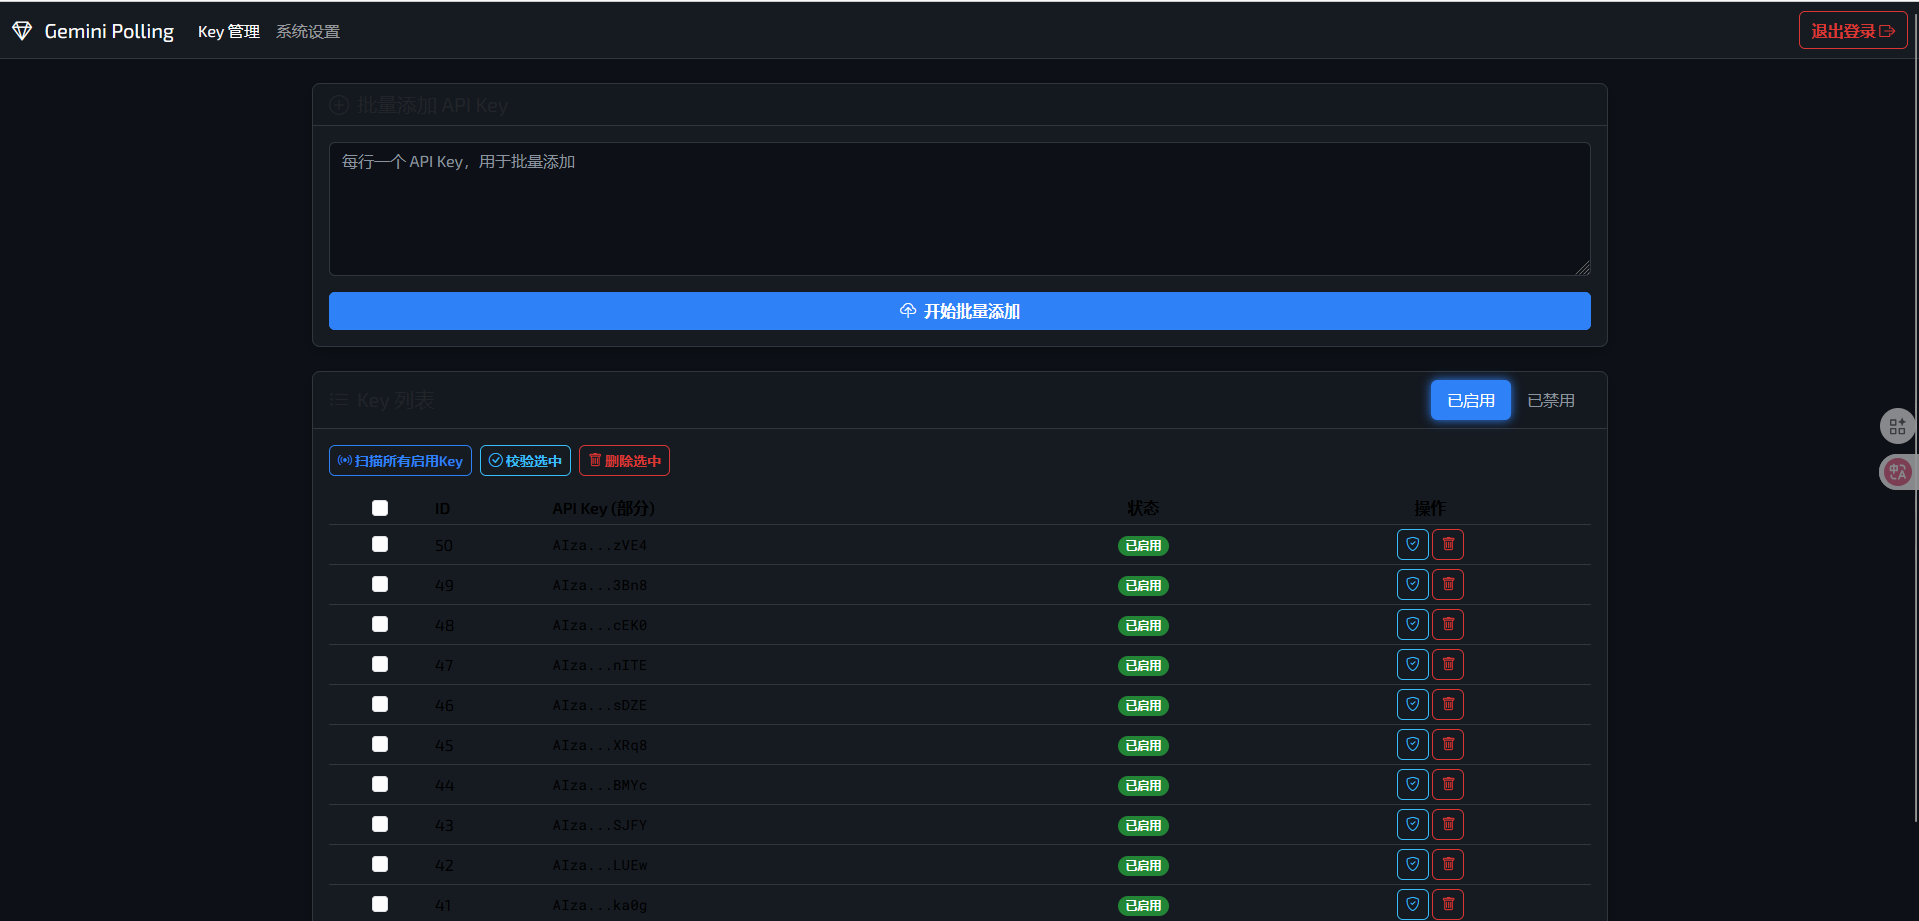
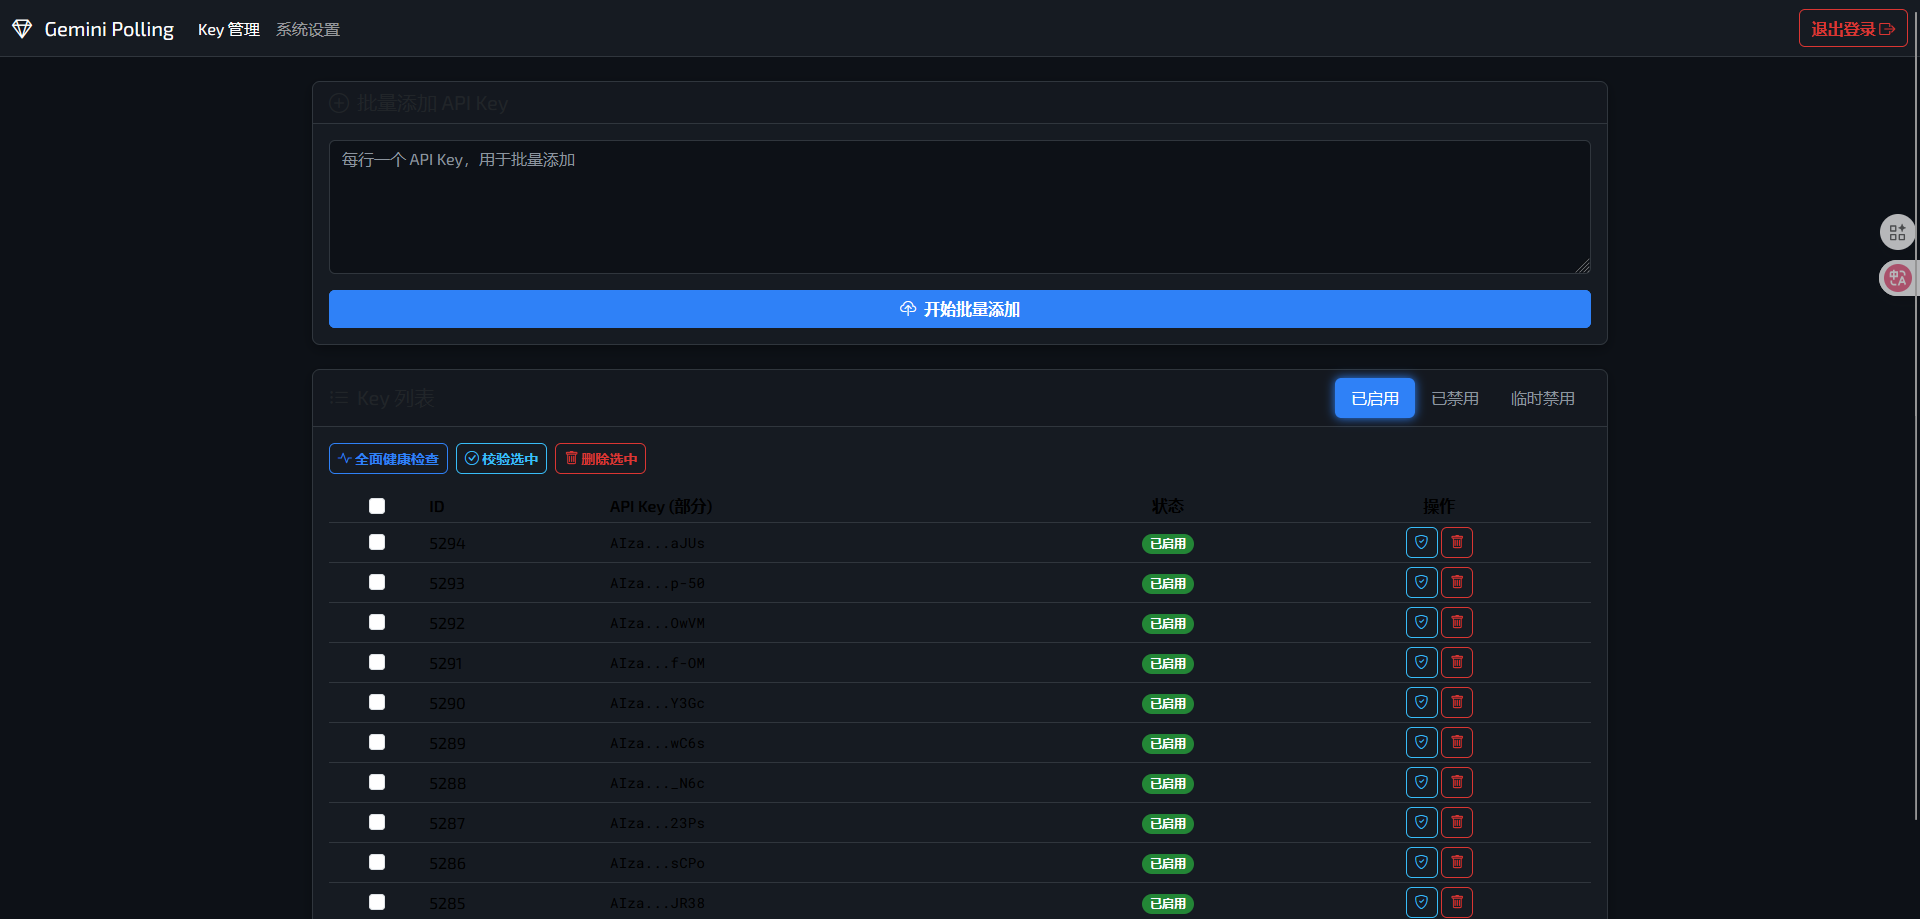
更新使用说明

diff --git a/README.md b/README.md
@@ -1,27 +1,44 @@
 # Gemini Polling 🚀(个人)
 
-一个高性能、高可用的 Google Gemini API 轮询代理。它将多个 Gemini API Key 汇聚成一个单一的、兼容 OpenAI 格式的 API 端点，并提供了负载均衡、自动故障切换和强大的 Web 管理后台。
+一个高性能、高可用的 Google Gemini API 轮询代理。它将多个 Gemini API Key 汇聚成一个单一的、同时支持 **OpenAI 格式**和 **Gemini 原生格式**的 API 端点，并提供了负载均衡、自动故障切换和强大的 Web 管理后台。
 
 [![Go Version](https://img.shields.io/badge/go-1.23%2B-blue.svg)](https://golang.org/)
 [![License: MIT](https://img.shields.io/badge/License-MIT-yellow.svg)](https://opensource.org/licenses/MIT)
+[![Docker](https://img.shields.io/badge/docker-ready-blue.svg?logo=docker)](https://hub.docker.com/)
 
 ---
 
 ## ✨ 核心功能
 
-*   **OpenAI 格式兼容**: 完全兼容 OpenAI 的 `/v1/chat/completions` 流式接口，可无缝接入各类第三方应用。
-*   **API Key 轮询池**: 将您所有的 Gemini API Key 添加到池中，程序会自动进行负载均衡，随机选择一个可用 Key 处理请求。
-*   **自动故障切换**: 当某个 Key 因为额度耗尽、被封禁或遇到 429 速率限制时，系统会自动尝试下一个可用 Key，对用户透明。
-*   **智能速率限制处理**: 自动识别 `429 (Too Many Requests)` 错误，并临时禁用相关 Key 一段可配置的时间，避免 Key 被永久封禁。
+*   **双 API 引擎**:
+    *   **OpenAI 格式兼容**: 无缝接入各类第三方应用。
+        *   支持 `/v1/chat/completions` (流式与非流式)。
+        *   支持 `/v1/models` 模型列表。
+        *   **支持函数调用 (Function Calling)**，可传递 `tools` 和 `tool_choice` 参数。
+    *   **Gemini 原生代理**: 提供原生 Gemini API 体验。
+        *   支持 `/v1beta/models/{model}:generateContent` (非流式)。
+        *   支持 `/v1beta/models/{model}:streamGenerateContent` (流式)。
+        *   支持 `/v1beta/models/{model}:countTokens`。
+        *   支持 `/v1beta/models` 模型列表。
+
+*   **智能密钥池**:
+    *   **API Key 轮询池**: 将您所有的 Gemini API Key 添加到池中，程序会自动进行负载均衡，随机选择一个可用 Key 处理请求。
+    *   **自动故障切换**: 当某个 Key 因额度耗尽、被封禁或遇到速率限制时，系统会自动尝试下一个可用 Key，对用户透明。
+    *   **智能速率限制处理**: 自动识别 `429 (Too Many Requests)` 错误，并临时禁用相关 Key 一段可配置的时间，避免 Key 被永久封禁。
+    *   **全自动健康检查**: 后台服务会**定期扫描所有 Key**（包括已启用和已禁用），自动禁用失效的 Key，并**自动重新启用**已恢复的 Key。
+
 *   **强大的 Web 管理后台**:
-    *   **仪表盘**: 集中管理所有 API Keys（启用/禁用）。
-    *   **批量操作**: 支持批量添加、删除、校验 Keys。
-    *   **自动验证**: 新增 Key 时自动验证其有效性，无效 Key 会被自动禁用。
-    *   **定期扫描**: 后台定时任务，自动扫描并禁用所有失效的 Key。
+    *   **仪表盘**: 集中管理所有 API Keys，可在“已启用”、“已禁用”、“临时禁用”状态间切换查看。
+    *   **状态监控**: 在“临时禁用”列表中可查看被 429 限制的 Key 及其解禁倒计时。
+    *   **批量操作**: 支持批量添加、删除、校验 Keys，批量添加时自动去重。
+    *   **手动扫描**: 可在后台随时触发对所有 Key 的全面健康检查。
     *   **系统设置**: 在 Web 界面中直接修改 `.env` 配置文件，并支持热重载（部分配置需重启生效）。
-*   **灵活的数据库支持**: 支持 SQLite (开箱即用) 和 MySQL，方便生产环境部署。
-*   **配置热重载**: 大部分配置（如 Admin Key, Polling Key, 重试策略等）修改后可立即生效，无需重启服务。
-*   **访问控制**: 可为公共 API 端点设置独立的访问密钥（Bearer Token）。
+
+*   **灵活部署与访问控制**:
+    *   **灵活的数据库支持**: 支持 SQLite (开箱即用) 和 MySQL，方便生产环境部署。
+    *   **配置热重载**: 大部分配置（如 Admin Key, Polling Key, 重试策略等）修改后可立即生效，无需重启服务。
+    *   **统一访问控制**: 可为所有公共 API 端点设置独立的访问密钥（Bearer Token），同时兼容 OpenAI 的 `Authorization` 和 Gemini 的 `x-goog-api-key` Header。
+    *   **Docker Ready**: 提供优化后的 `Dockerfile`，支持快速容器化部署。
 
 ## 🔧 安装与部署
 
@@ -45,7 +62,7 @@ cd gemini_polling
 cp .env.example .env
 ```
 
-然后，编辑 `.env` 文件。以下是所有配置项的说明：
+然后，编辑 `.env` 文件。请务_必修改 `ADMIN_API_KEY`_ 为一个复杂的随机字符串。
 
 ```dotenv
 # .env
@@ -58,7 +75,7 @@ SERVER_PORT=8080
 # 管理后台的登录密钥，请务必修改为一个复杂的随机字符串！
 ADMIN_API_KEY=your_super_secret_admin_key
 
-# 访问 /v1 公共接口所需的 Bearer Token。如果留空，则 /v1 路径无需认证即可访问。
+# 访问 /v1 和 /v1beta 公共接口所需的 Bearer Token。如果留空，则无需认证即可访问。
 POLLING_API_KEY=your_optional_public_api_key
 
 # --- 轮询策略 ---
@@ -73,7 +90,7 @@ RATE_LIMIT_COOLDOWN=60
 DB_DRIVER=sqlite3
 
 # 如果使用 "sqlite3"
-SQLITE_PATH=./data.db
+SQLITE_PATH=./data/data.db
 
 # 如果使用 "mysql" (请确保下面的信息正确)
 MYSQL_HOST=127.0.0.1
@@ -82,20 +99,25 @@ MYSQL_DBNAME=gemini_proxy
 MYSQL_USER=root
 MYSQL_PASSWORD=your_mysql_password
 ```
-### 4. Docker部署
+
+### 4. Docker 部署 (推荐)
+
 确保您已经准备好了 `.env` 配置文件。`Dockerfile` 会将项目根目录下的 `.env` 文件复制到镜像中。
+
 ```bash
+# 构建 Docker 镜像
 docker build -t gemini-polling .
-```
-```bash
+
+# 运行容器
 docker run -d --name gemini-app -p 8080:8080 \
-  -v $(pwd)/data:/app/data \
+  -v ./data:/app/data \
   --restart always \
   gemini-polling
 ```
+* `-p 8080:8080`: 将容器的 8080 端口映射到主机的 8080 端口。
+* `-v ./data:/app/data`: 将主机当前目录下的 `data` 文件夹挂载到容器的 `/app/data` 目录，用于持久化 SQLite 数据库。
 
-
-### 5. 编译并运行
+### 5. 本地编译运行
 
 ```bash
 # 自动下载依赖
@@ -109,85 +131,128 @@ go build -o gemini-polling
 ```
 
 程序启动后，您会看到类似以下的输出：
-
 ```
 =========================================================
   服务器正在启动，监听地址: http://localhost:8080
   管理后台登录地址:     http://localhost:8080/admin/login.html
 ---
   聊天 API Endpoint:      http://localhost:8080/v1/chat/completions
-  访问 /v1 路径认证:     Bearer Token (或 无)
+  Gemini 原生格式 API:    http://localhost:8080/v1beta/models/gemini-pro:generateContent
+  访问公共 API 认证:     Bearer Token (或 无)
 =========================================================
 ```
 
 ## ⚙ 后台管理
 
 ### 1. 登录
-![admin](./Images/login.png)
-
+![登录页面](./Images/login.png)
 访问 `http://localhost:8080/admin/login.html`，输入您在 `.env` 文件中设置的 `ADMIN_API_KEY` 进行登录。
 
 ### 2. Key 管理
-
-![admin](./Images/admin.png)
-
+![Key管理页面](./Images/admin.png)
 在 "Key 管理" 页面，您可以：
-*   **批量添加 Key**: 在文本框中每行输入一个 Gemini API Key，然后点击 "开始批量添加"。
-*   **查看 Key 列表**: 分页查看所有 "已启用" 或 "已禁用" 的 Key。
-*   **校验 Key**: 点击单个 Key 后的 "校验" 按钮，或勾选多个 Key 后点击 "校验选中"，可立即验证其有效性。
-*   **删除 Key**: 单个删除或批量删除。
-*   **扫描所有 Key**: 点击 "扫描所有启用Key" 会触发一个后台任务，全面检查所有已启用的 Key，并自动禁用失效的 Key。
+*   **切换视图**: 在 "已启用", "已禁用", "临时禁用" 列表之间切换。
+*   **查看临时禁用**: 查看因 429 被限制的 Key 和解禁倒计时。
+*   **批量操作**: 批量添加（自动去重）、删除、校验 Keys。
+*   **全面健康检查**: 手动触发一次对所有 Key 的后台健康扫描。
 
 ### 3. 系统设置
-
-![admin](./Images/setting.png)
-在 "系统设置" 页面，您可以直接修改 `.env` 文件中的配置项。
-*   **热重载**: 大部分配置（如 API Keys, 重试策略）修改并保存后会立即生效。
-*   **重启提示**: `服务器端口` 和 `数据库配置` 等底层设置修改后，需要您**手动重启程序**才能生效。
+![设置页面](./Images/setting.png)
+在 "系统设置" 页面，您可以直接修改 `.env` 文件中的配置项。大部分配置（如 API Keys, 重试策略）修改并保存后会立即生效。
 
 ## 🔌 API 使用
 
-API 端点与 OpenAI 的 `chat/completions` 接口兼容。
+如果设置了 `POLLING_API_KEY`，所有请求都需要进行认证。认证方式兼容两种 Header:
+*   `Authorization: Bearer <POLLING_API_KEY>`
+*   `x-goog-api-key: <POLLING_API_KEY>`
 
-*   **URL**: `http://<your-server-address>/v1/chat/completions`
-*   **Method**: `POST`
-*   **Auth**: `Authorization: Bearer <POLLING_API_KEY>` (如果在 `.env` 中设置了 `POLLING_API_KEY`)
-*   **Body**: JSON 格式，与 OpenAI 请求体一致。**必须**包含 `stream: true`。
+### 1. OpenAI 兼容接口
 
-### Curl 示例
-
+#### 非流式请求
+**Request:**
 ```bash
 curl http://localhost:8080/v1/chat/completions \
   -H "Content-Type: application/json" \
   -H "Authorization: Bearer your_optional_public_api_key" \
-  -d '{
+  -d 
+  {
     "model": "gemini-pro",
-    "messages": [
-      {
-        "role": "user",
-        "content": "你好，请介绍一下你自己"
-      }
-    ],
-    "stream": true,
+    "messages": [{"role": "user", "content": "你好，请介绍一下你自己"}],
+    "stream": false,
     "temperature": 0.7
-  }'
+  }
+```
+**Response:**
+```json
+{
+  "id": "chatcmpl-",
+  "object": "chat.completion",
+  "created": 1715000000,
+  "model": "gemini-pro",
+  "choices": [
+    {
+      "index": 0,
+      "message": {
+        "role": "assistant",
+        "content": "你好！我是一个大型语言模型..."
+      },
+      "finish_reason": "stop"
+    }
+  ],
+  "usage": { ... }
+}
 ```
 
-### 响应格式 (SSE)
+#### 流式请求
+将请求体中的 `"stream": true` 即可使用流式响应，响应格式为 Server-Sent Events (SSE)。
 
-响应是 Server-Sent Events (SSE) 流，每一块内容都是一个 `data:` 事件。
 
+### 2. Gemini 原生接口
+
+#### generateContent (非流式)
+**Request:**
+```bash
+curl http://localhost:8080/v1beta/models/gemini-pro:generateContent \
+  -H "Content-Type: application/json" \
+  -H "x-goog-api-key: your_optional_public_api_key" \
+  -d 
+  {
+    "contents": [{"parts": [{"text": "你好，请介绍一下你自己"}]}]
+  }
 ```
-data: {"id":"chatcmpl-xxx","object":"chat.completion.chunk","created":17000000,"model":"gemini-pro","choices":[{"index":0,"delta":{"content":"你好！"},"finish_reason":null}]}
-
-data: {"id":"chatcmpl-xxx","object":"chat.completion.chunk","created":17000000,"model":"gemini-pro","choices":[{"index":0,"delta":{"content":"我是一个"},"finish_reason":null}]}
-
-...
-
-data: {"id":"chatcmpl-xxx","object":"chat.completion.chunk","created":17000000,"model":"gemini-pro","choices":[{"index":0,"delta":{},"finish_reason":"stop"}]}
-
-data: [DONE]
+**Response:**
+```json
+{
+  "candidates": [
+    {
+      "content": {
+        "parts": [
+          {
+            "text": "你好！我是一个由 Google 训练的..."
+          }
+        ],
+        "role": "model"
+      },
+      "finishReason": "STOP",
+      ...
+    }
+  ],
+  ...
+}
 ```
+
+#### streamGenerateContent (流式)
+**Request:**
+```bash
+curl http://localhost:8080/v1beta/models/gemini-pro:streamGenerateContent?alt=sse \
+  -H "Content-Type: application/json" \
+  -H "x-goog-api-key: your_optional_public_api_key" \
+  -d 
+  {
+    "contents": [{"parts": [{"text": "写一首关于宇宙的诗"}]}]
+  }
+```
+响应为 Gemini 原生的 SSE 流。
 
 ## 📂 项目结构
 
@@ -197,10 +262,11 @@ data: [DONE]
 ├── handler/             # Gin 的 HTTP 请求处理器
 ├── middleware/          # Gin 中间件（如认证）
 ├── model/               # 数据库模型 (GORM) 和 API 数据结构
-├── service/             # 核心业务逻辑（如 Gemini 请求、Key 扫描）
+├── service/             # 核心业务逻辑（如 Gemini 请求、Key 健康检查）
 ├── static/              # 存放前端 HTML/CSS/JS 文件
 ├── storage/             # 数据库交互层 (GORM)
 ├── .env.example         # 配置文件示例
+├── Dockerfile           # Docker 配置文件
 ├── go.mod               # Go 模块文件
 ├── main.go              # 程序入口
 └── README.md            # 项目说明文档
